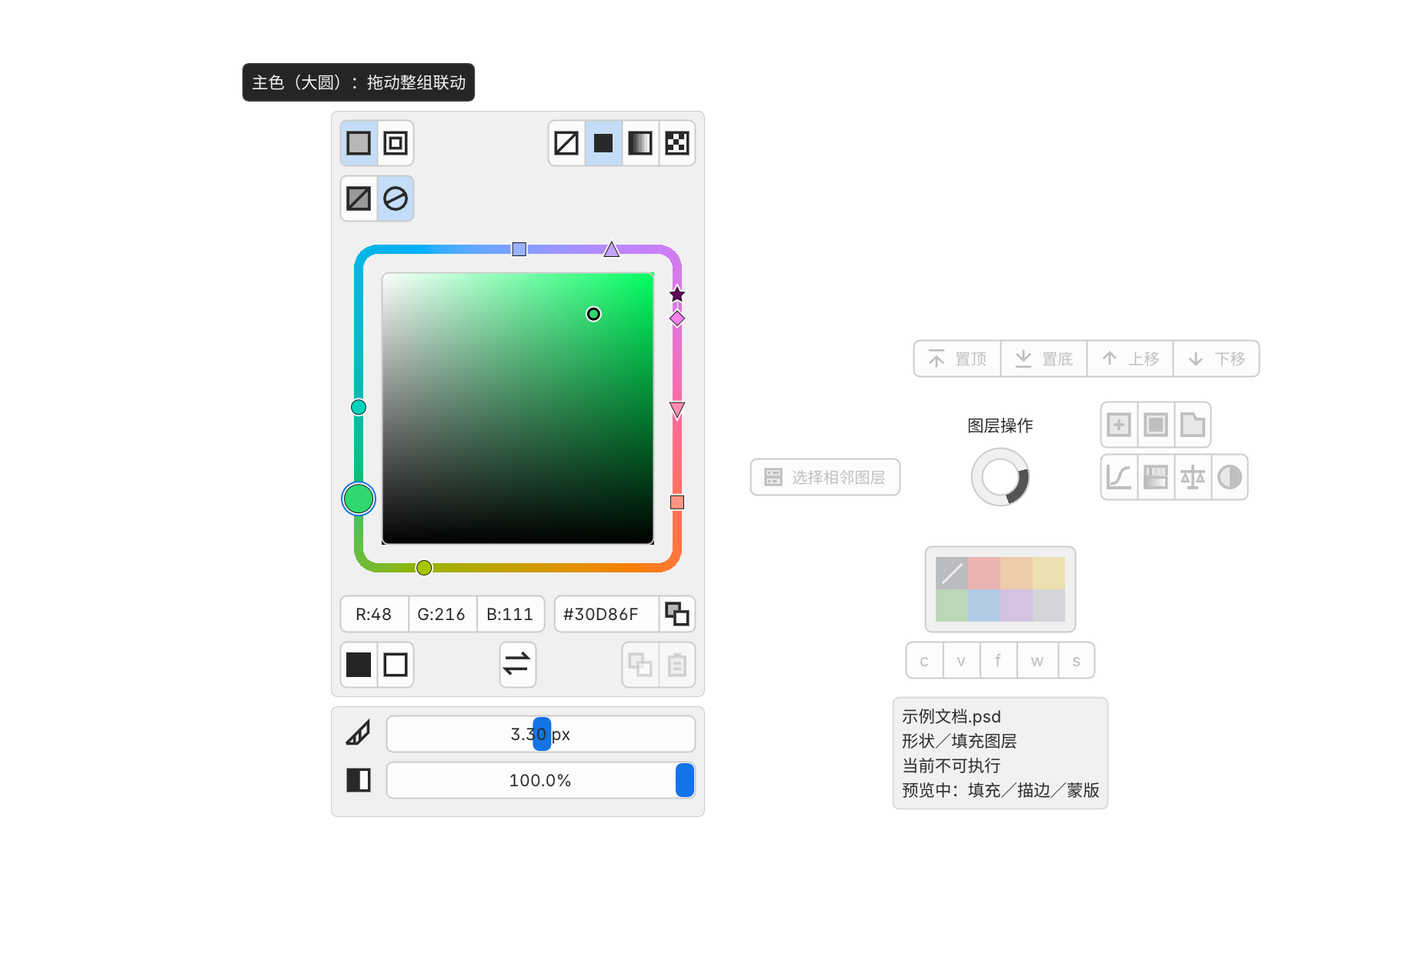
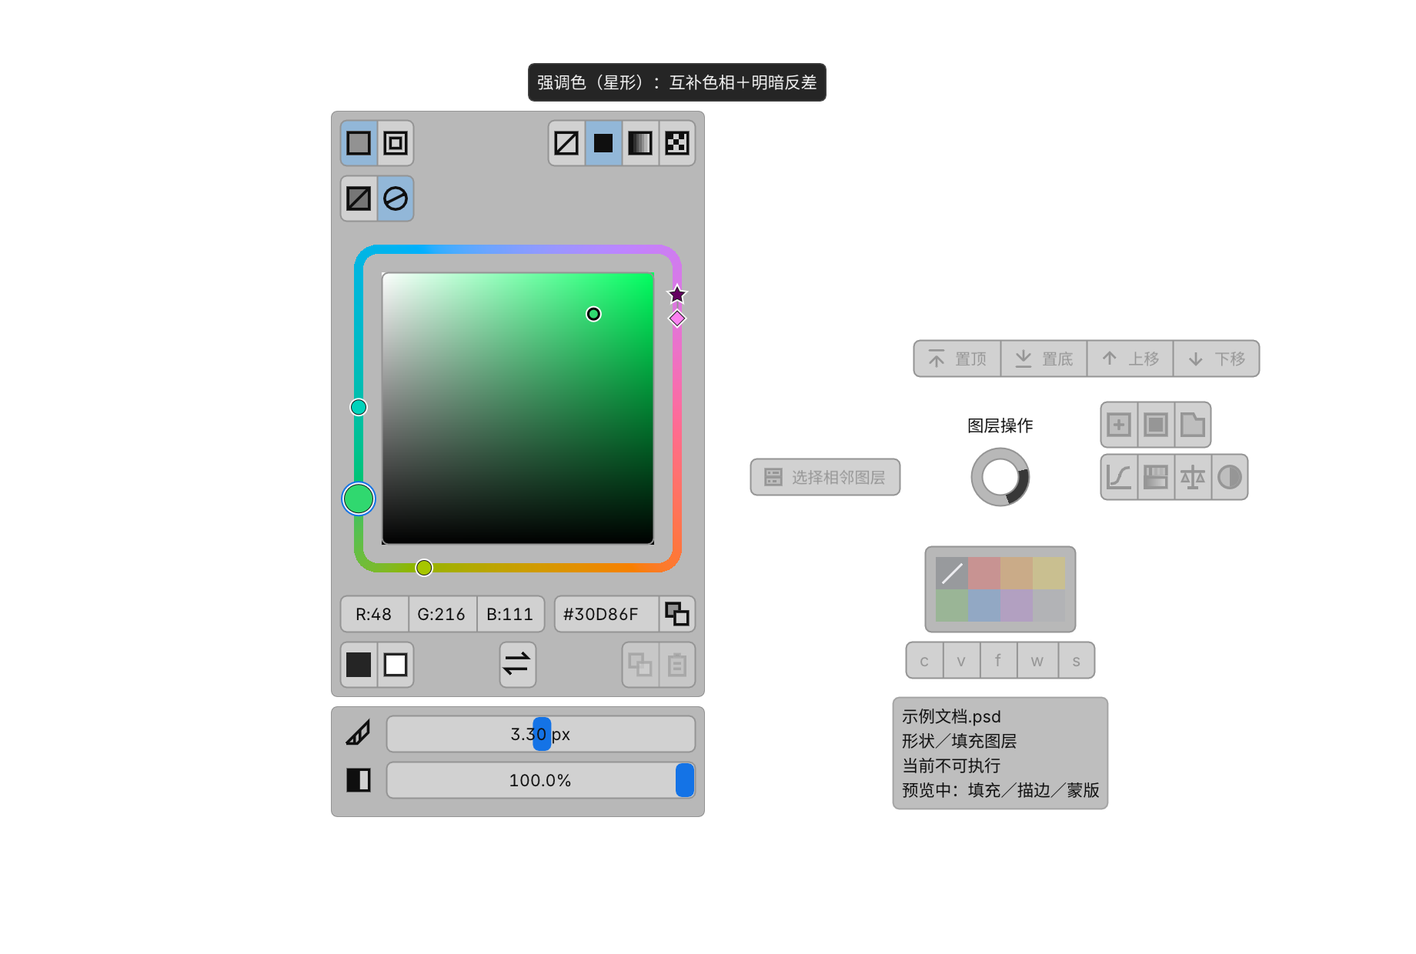
Simplify harmony picker to five points and explain accent color

diff --git a/native/MenuHost.cpp b/native/MenuHost.cpp
@@ -1017,7 +1017,7 @@ static const char* actionTipText(int action) {
        ImGui::GetIO().MousePos.y<=perceptualPicker.squareBounds.bottom)return "方块调整主色；外围圆点联动配色";
     if(action==205)return shapeEditor.channel?"无描边":"无填充";
     if(action==222){const auto method=shapeEditor.current().value("method",std::string("classic"));return method=="perceptual"?"感知渐变；点击切换线性":method=="linear"?"线性渐变；点击切换经典":"经典渐变；点击切换感知";}
-    if(action>=200 && action<234)return action==207 && shapeEditor.copiedAt && GetTickCount64()-shapeEditor.copiedAt<900?"已复制Hex颜色":shapeTipNames[action-200];
+    if(action>=200 && action<200+shapeTipCount)return action==207 && shapeEditor.copiedAt && GetTickCount64()-shapeEditor.copiedAt<900?"已复制Hex颜色":shapeTipNames[action-200];
     if(action>=12 && action<12+int(recentTips.size()) && panelKind==4)return recentTips[action-12].c_str();
     if(action>=40 && action<47)return capsLabels[action-40];
     if(action>=32 && action<39)return quickLabels[action-32];
@@ -1071,7 +1071,7 @@ static ImVec4 actionTipBounds(int action) {
     auto extent=font->CalcTextSizeA(font->FontSize,FLT_MAX,0,text);
     const float width=extent.x+2*padding,height=extent.y+2*padding;
     const auto pos=ImGui::GetMainViewport()->Pos,size=ImGui::GetMainViewport()->Size;
-    if(action>=200 && action<234){
+    if(action>=200 && action<200+shapeTipCount){
         const RECT group=tipGroupRect(action),anchor=shapeTipRows[action-200];
         const auto heading=font->CalcTextSizeA(font->FontSize,FLT_MAX,0,panelTitle());
         const RECT centre={LONG(pieCenter.x-std::max(19*scale,heading.x*.5f)),LONG(pieCenter.y-40*scale),
@@ -1486,7 +1486,7 @@ static void drawPie() {
     messages.push_back(taskStatus()+(taskFailed && !taskError.empty()?"\n"+taskError:""));
     drawFooter(messages,pieCenter.y+(capsReady && panelKind!=4?143.f:116.f)*scale,panelKind==4);
     const int tipAction=shapeEditor.ready() && shapeTipCandidate>=200?shapeTipCandidate:actionTipText(selected)?selected:-1;
-    const bool ownEditorTip=tipAction>=200 && tipAction<234 && shapeEditor.ready();
+    const bool ownEditorTip=tipAction>=200 && tipAction<200+shapeTipCount && shapeEditor.ready();
     const bool showTip=!pieAnimating && !holdFinished && !inputFocused && !ImGui::IsAnyItemActive() && (ownEditorTip || canExecute());
     const int displayed=!preview.empty()?(showTip?tipAction:-1):hoverTip.update(tipAction,tipFamily(tipAction),GetTickCount64(),tipGapAt(hoverTip.shown,cursor),showTip);
     if(displayed>=0)drawActionTip(displayed);else tipVisual.reset();
@@ -2083,7 +2083,7 @@ int main() {
                     io.AddMouseButtonEvent(ImGuiMouseButton_Left,frames==22);
                 }
             }
-            if(!preview.empty() && previewShapeHover>=0 && previewShapeHover<34 && frames>=2){
+            if(!preview.empty() && previewShapeHover>=0 && previewShapeHover<shapeTipCount && frames>=2){
                 const auto r=shapeTipRows[previewShapeHover];
                 const ImVec2 point=previewShapeHover>=25?perceptualPicker.points[previewShapeHover-25]:ImVec2{(r.left+r.right)*.5f,(r.top+r.bottom)*.5f};
                 io.AddMouseViewportEvent(ImGui::GetMainViewport()->ID);io.AddMousePosEvent(point.x,point.y);io.AddMouseButtonEvent(ImGuiMouseButton_Left,false);
@@ -2556,8 +2556,8 @@ int main() {
                         }
                     }
                 if(harmonyMarkerRoles[0]!=harmonyMarkerRoles[1] || harmonyMarkerRoles[1]!=harmonyMarkerRoles[2] ||
-                   harmonyMarkerRoles[3]==harmonyMarkerRoles[4] || harmonyMarkerRoles[6]!=harmonyMarkerRoles[7] ||
-                   harmonyMarkerRoles[8]==harmonyMarkerRoles[3])throw std::runtime_error("Harmony role shapes lost their semantic grouping");
+                   harmonyMarkerRoles[3]==harmonyMarkerRoles[4] || harmonyMarkerRoles[0]==harmonyMarkerRoles[3] ||
+                   harmonyMarkerRoles[0]==harmonyMarkerRoles[4])throw std::runtime_error("Harmony role shapes lost their semantic grouping");
                 // Polygon corners extend beyond the old circular hit boundary.
                 for(int i=0;i<perceptual::wheelCount;++i){
                     const auto& g=PerceptualPickerState::geometry(i);const float u=PerceptualPickerState::markerRadius(i)/4.5f;

diff --git a/native/MenuGlyphs.h b/native/MenuGlyphs.h
@@ -1,2 +1,2 @@
 // Generated by tools/build-menu-host.ps1; do not edit.
-static constexpr ImWchar menuStaticGlyphs[] = {176,183,215,8230,8722,12290,19968,19977,19978,19979,19981,19982,20010,20013,20026,20027,20114,20132,20173,20182,20214,20301,20316,20351,20363,20540,20572,20687,20805,20808,20837,20840,20851,20854,20856,20860,20869,20877,20889,20934,20986,20987,20998,20999,21035,21040,21046,21047,21069,21098,21152,21160,21270,21305,21333,21407,21452,21462,21464,21475,21487,21488,21512,21516,21518,21521,21644,22120,22238,22260,22270,22278,22312,22320,22359,22411,22635,22791,22797,22806,22810,22823,22833,23383,23450,23481,23485,23494,23544,23545,23558,23610,23618,23637,24050,24067,24179,24207,24212,24213,24230,24314,24320,24335,24378,24403,24418,24425,24453,24615,24674,24863,25152,25171,25191,25193,25302,25321,25345,25353,25442,25490,25509,25511,25551,25554,25628,25805,25903,25928,25968,25972,25991,26032,26041,26080,26102,26126,26143,26223,26234,26242,26263,26354,26356,26368,26377,26410,26412,26495,26524,26631,26679,26680,26694,26696,26723,27169,27225,27491,27493,27604,27714,27809,28040,28151,28165,28176,28784,28857,28966,29238,29256,29366,29702,29983,29992,30011,30333,30340,30456,30693,30830,31034,31186,31227,31295,31354,31383,31561,31614,31649,31867,31896,32032,32034,32043,32418,32431,32447,32452,32463,32467,32511,32534,32622,32701,32852,32972,33021,33258,33394,33609,33756,33777,33945,34013,34892,34913,34917,35010,35272,35282,35299,35748,35774,35782,35831,35835,35843,35937,36133,36148,36328,36716,36718,36733,36753,36755,36793,36817,36820,36830,36864,36873,36890,37051,37096,37197,37325,38145,38381,38500,38656,39029,39030,39033,39044,39068,39281,39318,39564,39588,40644,40657,65288,65289,65292,65295,65306,65307};
+static constexpr ImWchar menuStaticGlyphs[] = {176,183,215,8230,8722,12290,19968,19978,19979,19981,19982,20010,20013,20026,20027,20114,20132,20173,20182,20214,20301,20316,20351,20363,20540,20572,20687,20805,20808,20837,20840,20851,20854,20856,20860,20869,20877,20889,20934,20986,20987,20999,21035,21040,21046,21047,21069,21098,21152,21160,21270,21305,21333,21407,21452,21453,21462,21464,21475,21487,21488,21512,21516,21518,21521,21644,22120,22238,22260,22270,22278,22312,22320,22359,22411,22635,22791,22797,22806,22810,22823,22833,23383,23450,23481,23485,23494,23544,23545,23558,23610,23618,23637,24046,24050,24067,24179,24207,24212,24213,24230,24314,24320,24335,24378,24403,24418,24425,24453,24615,24674,24863,25152,25171,25191,25193,25302,25321,25345,25353,25442,25490,25509,25511,25551,25554,25628,25805,25903,25928,25968,25972,25991,26032,26041,26080,26102,26126,26143,26223,26234,26242,26263,26354,26356,26368,26377,26410,26412,26495,26524,26631,26679,26680,26694,26696,26723,27169,27225,27491,27493,27714,27809,28040,28151,28165,28176,28784,28857,28966,29238,29256,29366,29702,29983,29992,30011,30333,30340,30456,30693,30830,31034,31186,31227,31295,31354,31383,31561,31614,31649,31867,31896,32032,32034,32043,32418,32431,32447,32452,32463,32467,32511,32534,32622,32701,32852,32972,33021,33258,33394,33609,33756,33777,33945,34013,34892,34913,34917,35272,35299,35748,35774,35782,35831,35835,35843,35937,36133,36148,36328,36716,36718,36733,36753,36755,36793,36817,36820,36830,36864,36873,36890,37051,37096,37197,37325,38145,38381,38500,38656,39029,39030,39033,39044,39068,39281,39318,39564,39588,40644,40657,65288,65289,65291,65292,65295,65306,65307};

diff --git a/native/HarmonyMarkers.h b/native/HarmonyMarkers.h
@@ -3,9 +3,6 @@ struct HarmonyMarkerPoint {float x,y;};
 struct HarmonyMarkerGeometry {const HarmonyMarkerPoint* points;int count;float extent;};
 static constexpr HarmonyMarkerPoint harmonyMarker0[] = {{9.00000000f,4.50000000f},{8.91353376f,5.37790645f},{8.65745790f,6.22207545f},{8.24161326f,7.00006605f},{7.68198052f,7.68198052f},{7.00006605f,8.24161326f},{6.22207545f,8.65745790f},{5.37790645f,8.91353376f},{4.50000000f,9.00000000f},{3.62209355f,8.91353376f},{2.77792455f,8.65745790f},{1.99993395f,8.24161326f},{1.31801948f,7.68198052f},{0.75838674f,7.00006605f},{0.34254210f,6.22207545f},{0.08646624f,5.37790645f},{0.00000000f,4.50000000f},{0.08646624f,3.62209355f},{0.34254210f,2.77792455f},{0.75838674f,1.99993395f},{1.31801948f,1.31801948f},{1.99993395f,0.75838674f},{2.77792455f,0.34254210f},{3.62209355f,0.08646624f},{4.50000000f,0.00000000f},{5.37790645f,0.08646624f},{6.22207545f,0.34254210f},{7.00006605f,0.75838674f},{7.68198052f,1.31801948f},{8.24161326f,1.99993395f},{8.65745790f,2.77792455f},{8.91353376f,3.62209355f}};
 static constexpr HarmonyMarkerPoint harmonyMarker1[] = {{4.50000000f,0.00000000f},{9.00000000f,4.50000000f},{4.50000000f,9.00000000f},{0.00000000f,4.50000000f}};
-static constexpr HarmonyMarkerPoint harmonyMarker2[] = {{4.50000000f,0.00000000f},{9.00000000f,9.00000000f},{0.00000000f,9.00000000f}};
-static constexpr HarmonyMarkerPoint harmonyMarker3[] = {{0.00000000f,0.00000000f},{9.00000000f,0.00000000f},{4.50000000f,9.00000000f}};
-static constexpr HarmonyMarkerPoint harmonyMarker4[] = {{0.50000000f,0.50000000f},{8.50000000f,0.50000000f},{8.50000000f,8.50000000f},{0.50000000f,8.50000000f}};
-static constexpr HarmonyMarkerPoint harmonyMarker5[] = {{4.50000000f,0.00000000f},{5.82251700f,2.67971200f},{8.77975400f,3.10942400f},{6.63987700f,5.19528800f},{7.14503400f,8.14057600f},{4.50000000f,6.75000000f},{1.85496600f,8.14057600f},{2.36012300f,5.19528800f},{0.22024600f,3.10942400f},{3.17748300f,2.67971200f}};
-static constexpr HarmonyMarkerGeometry harmonyMarkers[] = {{harmonyMarker0,32,4.50000000f},{harmonyMarker1,4,4.50000000f},{harmonyMarker2,3,6.36396103f},{harmonyMarker3,3,6.36396103f},{harmonyMarker4,4,5.65685425f},{harmonyMarker5,10,4.50000000f}};
-static constexpr int harmonyMarkerRoles[] = {0,0,0,1,2,3,4,4,5};
+static constexpr HarmonyMarkerPoint harmonyMarker2[] = {{4.50000000f,0.00000000f},{5.82251700f,2.67971200f},{8.77975400f,3.10942400f},{6.63987700f,5.19528800f},{7.14503400f,8.14057600f},{4.50000000f,6.75000000f},{1.85496600f,8.14057600f},{2.36012300f,5.19528800f},{0.22024600f,3.10942400f},{3.17748300f,2.67971200f}};
+static constexpr HarmonyMarkerGeometry harmonyMarkers[] = {{harmonyMarker0,32,4.50000000f},{harmonyMarker1,4,4.50000000f},{harmonyMarker2,10,4.50000000f}};
+static constexpr int harmonyMarkerRoles[] = {0,0,0,1,2};

diff --git a/native/ShapeColorEditor.h b/native/ShapeColorEditor.h
@@ -80,10 +80,11 @@ struct ShapeColorEditor {
 static ShapeColorEditor shapeEditor;
 static bool shapeClipboardReady=false,shapeClipboardAvailable=false;
 static int shapeTipCandidate=-1;
-static std::array<RECT,34> shapeTipRows{};
-static const char* shapeTipNames[]={"填充","描边","纯色","渐变","图案","无填充／无描边","描边宽度：双击输入","复制当前Hex颜色","黑色","白色","交换填充与描边","复制形状填充与描边","粘贴到当前选中的形状图层","羽化：双击数值输入","密度：双击数值输入",
-    "RGB取色器","方块取色与感知配色：拖动圆点联动","邻近色","互补色","分裂互补色","三色配色","强调色：同时调整感知明度","切换渐变插值：感知／线性／经典","点击配色圆点使用颜色；拖动时全部联动","主色感知明度",
-    "主色（大圆）：拖动整组联动","邻近色 −30°（圆）","邻近色 +30°（圆）","互补色（菱形）","分裂互补色 150°（上三角）","分裂互补色 210°（下三角）","三色配色 120°（方形）","三色配色 240°（方形）","强调／明暗对比色（星形）"};
+static constexpr int shapeTipCount=25+perceptual::wheelCount;
+static std::array<RECT,shapeTipCount> shapeTipRows{};
+static const char* shapeTipNames[shapeTipCount]={"填充","描边","纯色","渐变","图案","无填充／无描边","描边宽度：双击输入","复制当前Hex颜色","黑色","白色","交换填充与描边","复制形状填充与描边","粘贴到当前选中的形状图层","羽化：双击数值输入","密度：双击数值输入",
+    "RGB取色器","方块取色与感知配色：拖动圆点联动","","","","","","切换渐变插值：感知／线性／经典","点击配色圆点使用颜色；拖动时全部联动","主色感知明度",
+    "主色（大圆）：拖动整组联动","邻近色 −30°（圆）","邻近色 +30°（圆）","互补色（菱形）","强调色（星形）：互补色相＋明暗反差"};
 static void shapeItemTip(int index,bool allowHover=true) {
     const auto a=ImGui::GetItemRectMin(),b=ImGui::GetItemRectMax();shapeTipRows[index]={LONG(a.x),LONG(a.y),LONG(b.x),LONG(b.y)};
     if(allowHover && ImGui::IsItemHovered() && !ImGui::IsItemActive())shapeTipCandidate=200+index;

diff --git a/native/PerceptualColor.h b/native/PerceptualColor.h
@@ -42,20 +42,13 @@ inline Color mix(Color a,Color b,double t,const std::string& method){
     if(method=="linear"){for(int i=0;i<3;++i)a[i]=encoded(linear(a[i]/255)*(1-t)+linear(b[i]/255)*t)*255;return a;}
     for(int i=0;i<3;++i)a[i]+=(b[i]-a[i])*t;return a;
 }
-inline std::vector<double> offsets(int rule){
-    switch(rule){case 0:return {0,-30,30};case 1:return {0,180};case 2:return {0,150,210};case 3:return {0,120,240};default:return {0,180};}
-}
-inline Color role(Color base,int rule,int i){
-    auto values=offsets(rule);double l=base[0],c=base[1],h=hue(base[2]+values.at(i));
-    if(rule==4 && i){l=base[0]>.6?.35:.8;c*=1.15;}
-    return fromLch(l,c,h);
-}
-// Every relationship is visible together. Shared main colors are one node.
-inline constexpr int wheelCount=9;
-inline constexpr std::array<double,wheelCount> wheelOffsets={0,-30,30,180,150,210,120,240,180};
+// Only the five visible relationships are selectable; no hidden harmony modes.
+inline constexpr int wheelCount=5;
+inline constexpr int accentIndex=4;
+inline constexpr std::array<double,wheelCount> wheelOffsets={0,-30,30,180,180};
 inline Color wheelColor(Color base,int index){
-    constexpr int rules[]={0,0,0,1,2,2,3,3,4};
-    constexpr int points[]={0,1,2,1,1,2,1,2,1};
-    return role(base,rules[index],points[index]);
+    double l=base[0],c=base[1];
+    if(index==accentIndex){l=base[0]>.6?.35:.8;c*=1.15;}
+    return fromLch(l,c,hue(base[2]+wheelOffsets.at(index)));
 }
 }

diff --git a/tools/build-menu-style-icons.py b/tools/build-menu-style-icons.py
@@ -158,7 +158,7 @@ for index,shape in enumerate(markers['shapes']):
     provenance_item={'name':name,'asset':asset.relative_to(ROOT).as_posix(),'sha256':hashlib.sha256(asset.read_bytes()).hexdigest()}
     if index==0:marker_assets=[]
     marker_assets.append(provenance_item)
-roles=[indices[name] for name in markers['roles']];assert len(roles)==9
+roles=[indices[name] for name in markers['roles']];assert len(roles)==5
 marker_header='// Generated by tools/build-menu-style-icons.py; project-authored semantic handles.\nstruct HarmonyMarkerPoint {float x,y;};\nstruct HarmonyMarkerGeometry {const HarmonyMarkerPoint* points;int count;float extent;};\n'+''.join(definitions)+'static constexpr HarmonyMarkerGeometry harmonyMarkers[] = {'+','.join(records)+'};\nstatic constexpr int harmonyMarkerRoles[] = {'+','.join(map(str,roles))+'};\n'
 (ROOT/'native/HarmonyMarkers.h').write_text(marker_header,'utf-8')
 metadata['harmony_markers']={'authorship':markers['authorship'],'grid':9,'stroke':1,'root_size':[18,24],'roles':markers['roles'],'assets':marker_assets,'runtime':'Compiled geometry only; same source drives fill, hit testing and spacing. No runtime asset loading.'}

diff --git a/native/PerceptualPicker.h b/native/PerceptualPicker.h
@@ -37,7 +37,7 @@ struct PerceptualPickerState {
         if(selected)draw->AddPolyline(vertices.data(),g.count,ImGui::GetColorU32(ImGuiCol_CheckMark),ImDrawFlags_Closed,5*uiScale);
         draw->AddPolyline(vertices.data(),g.count,IM_COL32(255,255,255,240),ImDrawFlags_Closed,3*uiScale);
         draw->AddPolyline(vertices.data(),g.count,IM_COL32(0,0,0,230),ImDrawFlags_Closed,uiScale);
-        if(index==8)draw->AddConcavePolyFilled(vertices.data(),g.count,color);
+        if(index==perceptual::accentIndex)draw->AddConcavePolyFilled(vertices.data(),g.count,color);
         else draw->AddConvexPolyFilled(vertices.data(),g.count,color);
     }
     void reset(const Json& rgb,const std::string& identity){

diff --git a/backend/version.py b/backend/version.py
@@ -1,1 +1,1 @@
-APP_VERSION = '0.4.190'
+APP_VERSION = '0.4.191'

diff --git a/TODO.md b/TODO.md
@@ -1,5 +1,8 @@
 # Photoshop Menu TODO
 
+- [x] 191五点配色实际入口：分裂互补／三色配色四点和命中已移除，保留主色、两枚邻近色、互补色和星形强调色；强调色说明互补色相＋明暗反差。实际191／UXP43及原生组件匹配；双核完整矩阵＋80悬停场景、四主题32导出＋124张提示像素检查、PS24.0.1低CPU取消／正常确认一次撤销通过。执行端未改，452Python／40前端沿用已验基线；PS未重启，原稿／设置／资源与旧未知记录保持。实体键鼠／画布及其他办公硬件仍待对应验收。证据.runtime/recovery191/runtime.json、live-matrix.json、native191-low.log、tooltip191/pixels.json、tooltip191-batch/pixels.json。
+- [ ] 191公开交付：源码／标签、Wiki五页、Release下载与API限流备用通道核验、只保留最新版。
+
 - [x] 190提示修复代码／构建／实际入口：修复颜色／羽化实时预览开始后悬停tip消失：只读提示按当前编辑面板是否仍可用显示，不再被“其他图层操作禁用”的条件一并关闭。其他操作、目标、输入与未知结果保护保持。 原189条件已复现；双核原生完整矩阵＋144悬停场景、四主题32普通导出＋172张提示像素核对及两轮PS事务通过。实际190／UXP43，无需重启PS，原稿／配置／资源与未知记录保留。实体鼠标／画布仍待验收；未改Python／前端使用既有回归基线。证据.runtime/tooltip190-reproduced.json、tooltip190/pixels.json、tooltip190-batch/pixels.json、recovery190/runtime.json、live-matrix.json及native190-low.log。
 - [x] 190公开交付：源码／标签及Wiki五页已推送并公开核验，ZIP／SHA／更新清单匿名下载与冻结更新器API403备用通道真实下载通过。只保留190 Release；188／189附件已本地备份、标签／源码历史保留。实际190／UXP43及新原生组件匹配，dist仅当前发行物；实体画布／键鼠与其他硬件按待验收项保留。证据.runtime/recovery190/runtime.json、release-0.4.190-public-verification.json、manifest190-verification.json、fallback190-live.json、wiki190-public.json、release190-cleanup.json。
 

diff --git a/docs/PERCEPTUAL-COLOR.md b/docs/PERCEPTUAL-COLOR.md
@@ -1,5 +1,13 @@
 # 方块取色、感知配色与渐变
 
+191／UXP43：按用户要求移除分裂互补与三色配色的四个标记及命中。外围现在共五点：主色大圆、两枚邻近色小圆、互补色菱形、强调色星形；中央方块、RGB／Hex和既有编辑交互保持。
+
+强调色用于突出小面积的按钮、标记或重点。当前算法沿主色的互补色相，亮主色搭配较暗强调色、暗主色搭配较亮强调色，并尝试增加色度；超出sRGB时保留明度／色相并压缩色度。它是配色建议，不保证与任意背景都有足够对比。星形悬停说明为“强调色：互补色相＋明暗反差”；互补色菱形仅改变色相，不额外调整明度。
+
+191／UXP43已切换本机实际入口，EXE及原生组件匹配。双逻辑处理器／Below Normal原生完整矩阵通过，覆盖五点拾取／拖动、静止缓存、输入／焦点／取消及80个编辑中悬停场景；四主题32份普通导出与124张悬停图逐张核对底板、文字与边界。PS24.0.1低CPU取消恢复和正常确认一次撤销两轮事务通过，核对内容／路径／顺序、选层及资源还原。
+
+执行端、UXP和前端未改；Python452项及前端40项沿用已验证基线，不冒称本次重跑。PS未重启、UXP43未重载，原稿／设置／历史未知记录保留。实体鼠标／Caps／Esc到画布目视、其他PS与真实办公低配仍待对应验收；模拟双核仅限制CPU并发。
+
 190／UXP43：修复颜色／羽化实时预览开始后悬停tip消失：只读提示按当前编辑面板是否仍可用显示，不再被“其他图层操作禁用”的条件一并关闭。其他操作、目标、输入与未知结果保护保持。
 
 在配色标记、填充／描边、取色器切换及羽化／密度上悬停可查看说明；拖动或输入时仍隐藏提示。首次停留150ms、同组切换60ms及原有视觉过渡不变，不增加按键或宿主调用等待。高面板贴近窗口边缘时，四个默认位置放不下会继续寻找空闲侧边位置，避让编辑面板、中心、按钮和信息区；提示仍只绘制，不截获输入、不扩大命中。

diff --git a/docs/UI-GUIDE.md b/docs/UI-GUIDE.md
@@ -1,5 +1,9 @@
 # UI 指南
 
+191／UXP43：按用户要求移除分裂互补与三色配色的四个标记及命中。外围现在共五点：主色大圆、两枚邻近色小圆、互补色菱形、强调色星形；中央方块、RGB／Hex和既有编辑交互保持。
+
+强调色用于突出小面积的按钮、标记或重点。当前算法沿主色的互补色相，亮主色搭配较暗强调色、暗主色搭配较亮强调色，并尝试增加色度；超出sRGB时保留明度／色相并压缩色度。它是配色建议，不保证与任意背景都有足够对比。星形悬停说明为“强调色：互补色相＋明暗反差”；互补色菱形仅改变色相，不额外调整明度。
+
 190／UXP43：修复颜色／羽化实时预览开始后悬停tip消失：只读提示按当前编辑面板是否仍可用显示，不再被“其他图层操作禁用”的条件一并关闭。其他操作、目标、输入与未知结果保护保持。 在配色标记、填充／描边、取色器切换及羽化／密度上悬停可查看说明；拖动或输入时仍隐藏提示。首次停留150ms、同组切换60ms及原有视觉过渡不变，不增加按键或宿主调用等待。高面板贴近窗口边缘时，四个默认位置放不下会继续寻找空闲侧边位置，避让编辑面板、中心、按钮和信息区；提示仍只绘制，不截获输入、不扩大命中。 [复现和验证范围](PERCEPTUAL-COLOR.md)。
 
 189／UXP43：用形状识别配色关系：主色大圆、邻近色小圆、互补色菱形、分裂互补色上／下三角、三色配色方形、强调／明暗对比色星形。九个标记仍同时显示，内部显示真实颜色，选中用蓝色轮廓强调。 原布局、配色算法与实时预览／取消／一次撤销保持；几何用于绘制、命中和避让，不新增运行时资源加载。[用法与验证范围](PERCEPTUAL-COLOR.md)。

diff --git a/docs/SHAPE-PAINT-CLIPBOARD.md b/docs/SHAPE-PAINT-CLIPBOARD.md
@@ -1,5 +1,7 @@
 # 形状填充／描边复制粘贴
 
+191／UXP43：配色轨道简化为五点（主色、两枚邻近色、互补色、强调色），移除分裂互补／三色配色和对应命中；强调色提示说明互补色相与明暗反差。沿用190的实时预览中悬停提示；已有UXP43无需重载PS。详见[感知配色](PERCEPTUAL-COLOR.md)。
+
 190／UXP43：修复颜色／羽化实时预览开始后悬停tip消失：只读提示按当前编辑面板是否仍可用显示，不再被“其他图层操作禁用”的条件一并关闭。其他操作、目标、输入与未知结果保护保持。 在配色标记、填充／描边、取色器切换及羽化／密度上悬停可查看说明；拖动或输入时仍隐藏提示。首次停留150ms、同组切换60ms及原有视觉过渡不变，不增加按键或宿主调用等待。高面板贴近窗口边缘时，四个默认位置放不下会继续寻找空闲侧边位置，避让编辑面板、中心、按钮和信息区；提示仍只绘制，不截获输入、不扩大命中。 [复现和验证范围](PERCEPTUAL-COLOR.md)。
 
 189／UXP43：用形状识别配色关系：主色大圆、邻近色小圆、互补色菱形、分裂互补色上／下三角、三色配色方形、强调／明暗对比色星形。九个标记仍同时显示，内部显示真实颜色，选中用蓝色轮廓强调。 原布局、配色算法与实时预览／取消／一次撤销保持；几何用于绘制、命中和避让，不新增运行时资源加载。[用法与验证范围](PERCEPTUAL-COLOR.md)。
